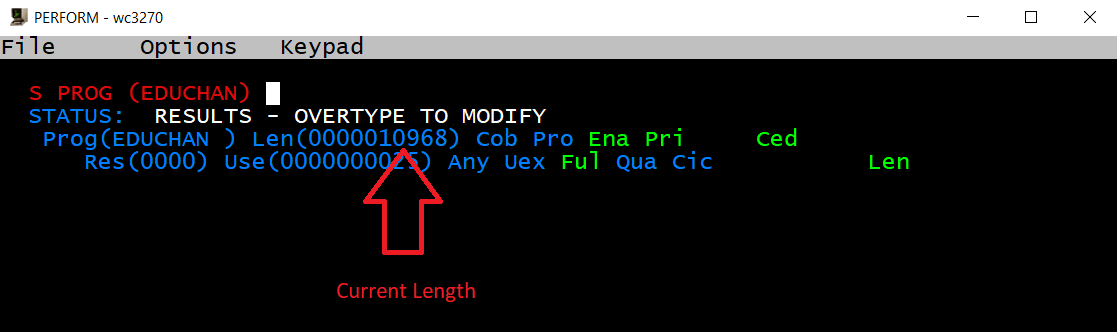
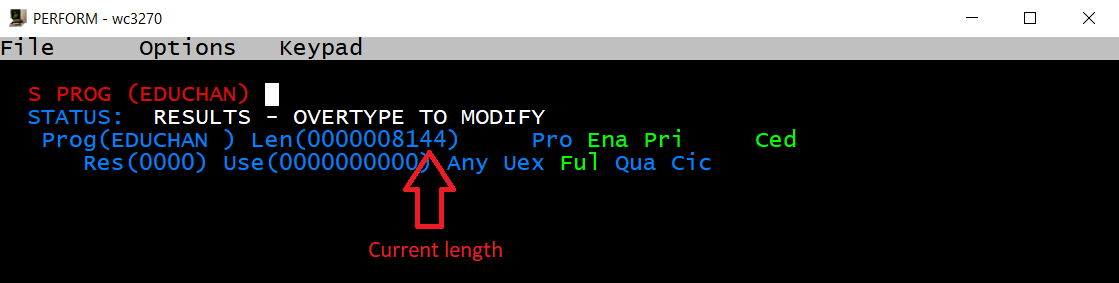
cemt

diff --git a/modernizing-mainframe-monitoring/content/01_Deployment_and_Customization/index.md b/modernizing-mainframe-monitoring/content/01_Deployment_and_Customization/index.md
@@ -132,5 +132,18 @@ ZDC993I Opn1RFD:0008  /u/labuser/ci/7.3build/log/dt_ZLOCAL1_Z731_67175364.0.log
 
    ![Conf](../../assets/images/conf.png)
 
+### Step 5: Prepare CICS Program `EDUCHAN`
+- Open a new X3270 session by double clicking the `Perform` icon and logon to CICS with `l HVDACnnn` (`nnn` is your theree digit ID)
+- Click on Keypad and `Clr`
+- Type `cemt s prog(EDUCHAN)` (this will display the current length and use count, after starting the CICS region it should all be zero)
+
+  ![CEMT](../../assets/images/firstcemt.png)
+
+- Make a `newcopy` of the EDUCHAN program version by adding `ne` after `cemt s prog(EDUCHAN)` (the length should change because the program has been loaded)
+
+  ![newcopy](../../assets/images/firstnewcopy.png)
+
+- Your `EDUCHAN` program version is active now
+
 ### You've arrived
 - You have successfully deployed and configured Dynatrace for z/OS! 
